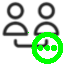
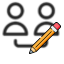
add load

Changed region(s): [[0.4375, 0.3438, 1.0, 1.0], [0.4375, 0.5, 0.4688, 0.5312]]

diff --git a/qiperfc/src/qiperfc.cpp b/qiperfc/src/qiperfc.cpp
@@ -12,6 +12,7 @@
 #include <QFileDialog>
 #include <QStandardPaths>
 #include <QSaveFile>
+#include <QMessageBox>
 
 #include "tpdirdelegate.h"
 #include "endpointact.h"
@@ -89,6 +90,58 @@ QIperfC::~QIperfC()
     delete ui;
 }
 
+bool QIperfC::load(QString filename)
+{
+    if (m_tpmgr->rootChildCount()>0) {
+        QMessageBox msgBox;
+        msgBox.setText("Clear data before load config");
+        msgBox.setInformativeText("Do you want to save your changes?");
+        msgBox.setStandardButtons(QMessageBox::Save | QMessageBox::Discard | QMessageBox::Cancel);
+        msgBox.setDefaultButton(QMessageBox::Save);
+        int ret = msgBox.exec();
+        switch (ret) {
+          case QMessageBox::Save:
+              // Save was clicked
+              on_Save();
+              break;
+          case QMessageBox::Discard:
+              // Don't Save was clicked
+              on_Clear();
+              break;
+          case QMessageBox::Cancel:
+              // Cancel was clicked
+              return false;
+              //break;
+          default:
+              // should never be reached
+              break;
+        }
+    }
+    QFile f(filename);
+    f.open(QIODevice::ReadOnly);
+    QByteArray b = f.readAll();
+    f.close();
+    m_tpmgr->loaddata(b);
+    return true;
+
+}
+
+bool QIperfC::save(QString filename)
+{
+    //prepare throughput config data
+    if (m_tpmgr->rootChildCount()>0) {
+        QByteArray b = m_tpmgr->savedata();
+        QSaveFile file(filename);
+        file.open(QIODevice::WriteOnly);
+        file.write(b);
+        file.commit();
+        return true;
+    }else {
+        qDebug() << "NO throughput config to save" << Qt::endl;
+        return false;
+    }
+}
+
 void QIperfC::onNewMessage(const QString msg)
 {
     ui->textEdit->append(msg);
@@ -97,13 +150,24 @@ void QIperfC::onNewMessage(const QString msg)
 void QIperfC::on_Open()
 {
     //TODO: load test config file
+    QString fileName = QFileDialog::getOpenFileName(this,
+             tr("Open QIperf file"),
+            QStandardPaths::writableLocation(QStandardPaths::DesktopLocation),
+            tr(QIPERF_EXT_FILTER));
+    QFileInfo fi(fileName);
+    QString ext = fi.suffix();
+    if (ext.compare(QIPERF_EXT)!=0){
+        qDebug() << "Not support file format: " << fileName;
+        return;
+    }
+    load(fileName);
 }
 
 void QIperfC::on_Save()
 {
     //TODO: save test config file
     QString fileName = QFileDialog::getSaveFileName(this,
-             tr("Open QIperf File"),
+             tr("Save QIperf "),
             QStandardPaths::writableLocation(QStandardPaths::DesktopLocation),
             tr(QIPERF_EXT_FILTER));
     //TODO: zip/tar file to save all data include throughput result...
@@ -114,16 +178,14 @@ void QIperfC::on_Save()
         fileName = fi.path() + fi.baseName() + "."+ QIPERF_EXT;
     }
     qDebug() << "save file: " << fileName << Qt::endl;
+    save(fileName);
 
-    //prepare throughput config data
+}
+
+void QIperfC::on_Clear()
+{
     if (m_tpmgr->rootChildCount()>0) {
-        QByteArray b = m_tpmgr->savedata();
-        QSaveFile file(fileName);
-        file.open(QIODevice::WriteOnly);
-        file.write(b);
-        file.commit();
-    }else {
-        qDebug() << "NO throughput config to save" << Qt::endl;
+        m_tpmgr->clear();
     }
 }
 
@@ -161,10 +223,7 @@ void QIperfC::onStart()
     if (m_tpmgr->rootChildCount()>0) {
         updateRunStatus(true);
         //start test
-    //    m_tpmgr->start();
-//        qDebug() << "ChildCount: " << m_tpmgr->rootChildCount() << Qt::endl;
         QList<TP *> tps = m_tpmgr->getChilds();
-//        TP *tp;
         QString s;
         foreach (TP *tp, tps) {
             //RPC to control all server endpoint (iperf server)
@@ -189,7 +248,6 @@ void QIperfC::onStart()
             }
         }
         qint64 rs=0;
-//        QString key;
         //Start server
         for (auto key: m_wss.keys()){
             rs = m_wss[key]->sendText("Start");
@@ -268,7 +326,7 @@ void QIperfC::onStart()
 #endif
         //TODO: wait all test done!!
 
-        //TODO: check all test down!!
+        //TODO: check all test done!!
 
     } else {
         QMessageBox::information(this,"NOTICE", "Plase add iperf test pair first!");

diff --git a/qiperfc/src/tpmgr.cpp b/qiperfc/src/tpmgr.cpp
@@ -118,13 +118,11 @@ int TPMgr::rowCount(const QModelIndex &parent) const
 bool TPMgr::add(QString data)
 {
     //json data
-    //qDebug() << "TPMgr::add" << data << ;
     int idx = rootItem->childCount();
     beginInsertRows(QModelIndex(), idx, idx);
     TP *tp = new TP(QString::number(idx), data, rootItem);
     rootItem->appendChild(tp);
     endInsertRows();
-
     return true;
 }
 QModelIndex TPMgr::indexFromItem(TP *item){
@@ -195,6 +193,31 @@ QByteArray TPMgr::savedata()
     }
     QJsonDocument doc(jsonarr);
     return doc.toJson(QJsonDocument::Compact);
+}
+
+bool TPMgr::loaddata(QByteArray data)
+{
+    qDebug() << "TODO: loaddata: " << data ;
+    QJsonDocument jsonDoc = QJsonDocument::fromJson(data);
+    QJsonArray jsonarr = jsonDoc.array();
+    foreach (const QJsonValue &value, jsonarr) {
+        QJsonObject obj = value.toObject();
+        QJsonDocument doc(obj);
+        QString strJson(doc.toJson(QJsonDocument::Compact));
+        add(strJson);
+    }
+
+    return true;
+}
+
+void TPMgr::clear()
+{
+    beginResetModel();
+
+    qDebug() << "clear: " << this->rootItem->childCount();
+
+
+    endResetModel();
 }
 
 //TP *TPMgr::itemFromIndex(const QModelIndex &index) const

diff --git a/qiperfc/src/main.cpp b/qiperfc/src/main.cpp
@@ -18,7 +18,7 @@
 static QTextStream output_ts;
 void myMessageOutput(QtMsgType type, const QMessageLogContext &context, const QString &msg)
 {
-    qDebug() << "myMessageOutput: " << msg << Qt::endl;
+    //qDebug() << "myMessageOutput: " << msg << Qt::endl;
     const char *file = context.file ? context.file : "";
     //    const char *function = context.function ? context.function : "";
     switch (type) {
@@ -72,6 +72,12 @@ int main(int argc, char *argv[])
     QObject::connect(&sigwatch, SIGNAL(unixSignal(int)), &main, SLOT(onQuit()));
 #endif
 
+    if (argc >=2) {
+        QFileInfo fi(argv[1]);
+        if (fi.suffix().compare(QIPERF_EXT)==0){
+            qDebug() << "TODO load: " << argv[1] ;
+        }
+    }
     main.show();
     rc = app.exec();
 

diff --git a/qiperfc/src/qiperfc.h b/qiperfc/src/qiperfc.h
@@ -42,11 +42,14 @@ public:
     ~QIperfC() override;
     void start();
     void stop();
+    bool load(QString filename); // load tp config
+    bool save(QString filename); // save tp config
 
 public slots:
     void onNewMessage(const QString msg);
     void on_Open();
     void on_Save();
+    void on_Clear();
     void on_pairAdd();
     void on_pairEdit();
     void on_pairDelete();

diff --git a/qiperfc/src/tpmgr.h b/qiperfc/src/tpmgr.h
@@ -27,6 +27,8 @@ public:
     QList<TP*> getChilds();
     bool removeRows(int position, int rows, const QModelIndex &parent) override;
     QByteArray savedata();
+    bool loaddata(QByteArray data);
+    void clear();
 private:
 //    TP *itemFromIndex(const QModelIndex &index) const;
     TP *getItem(const QModelIndex& index) const;
